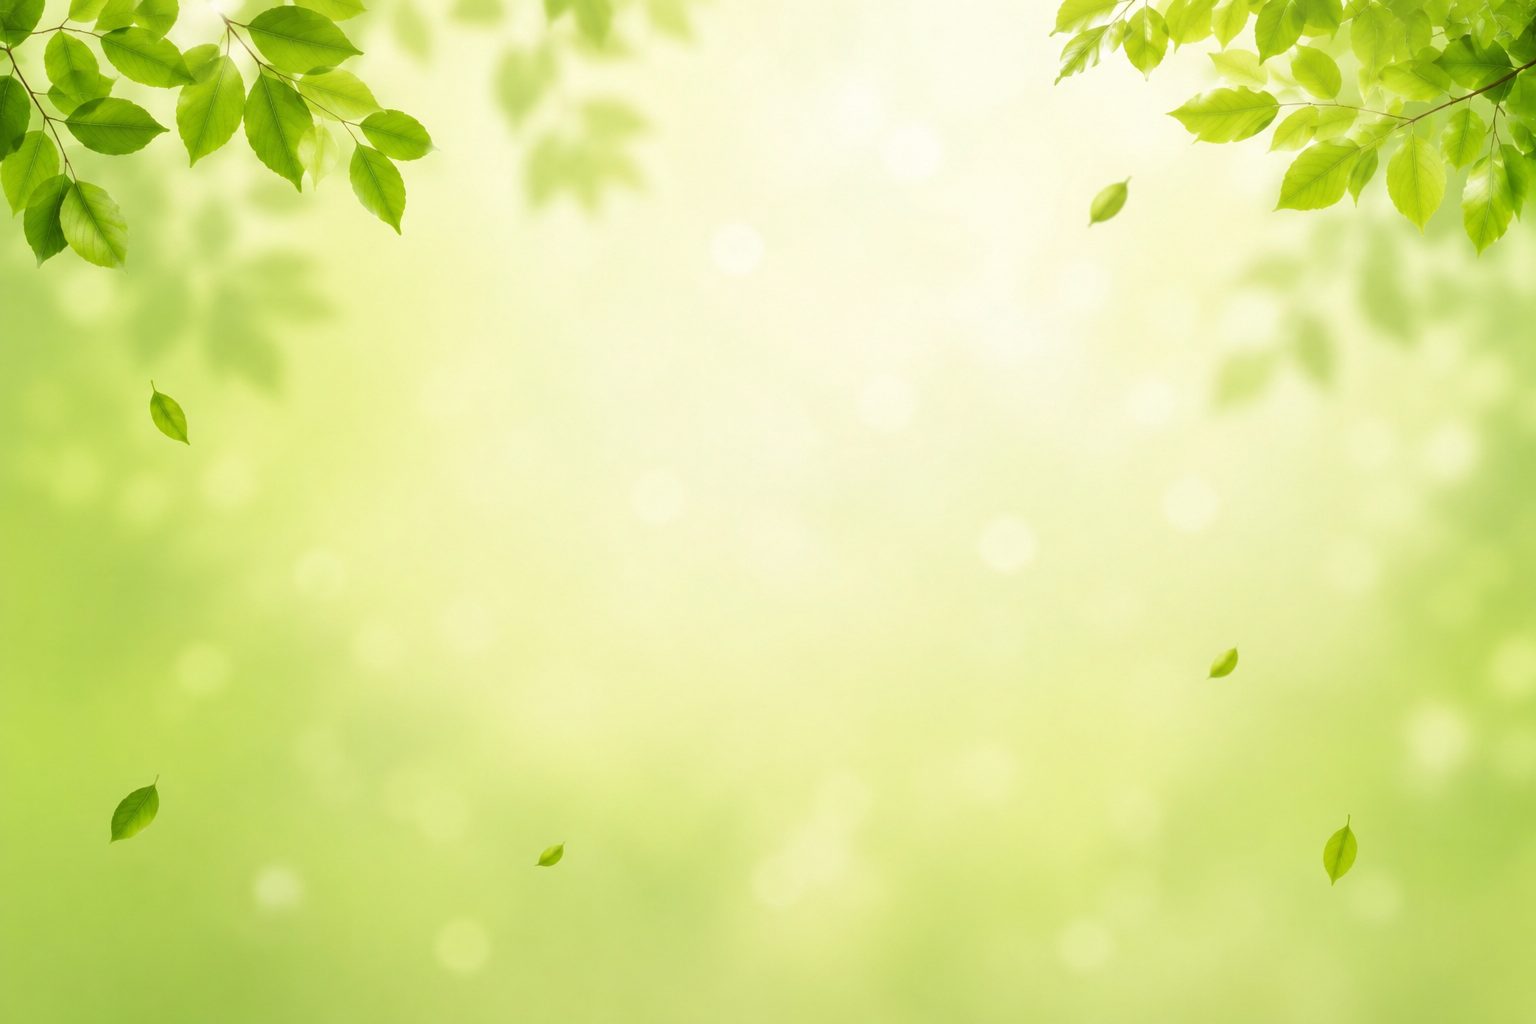
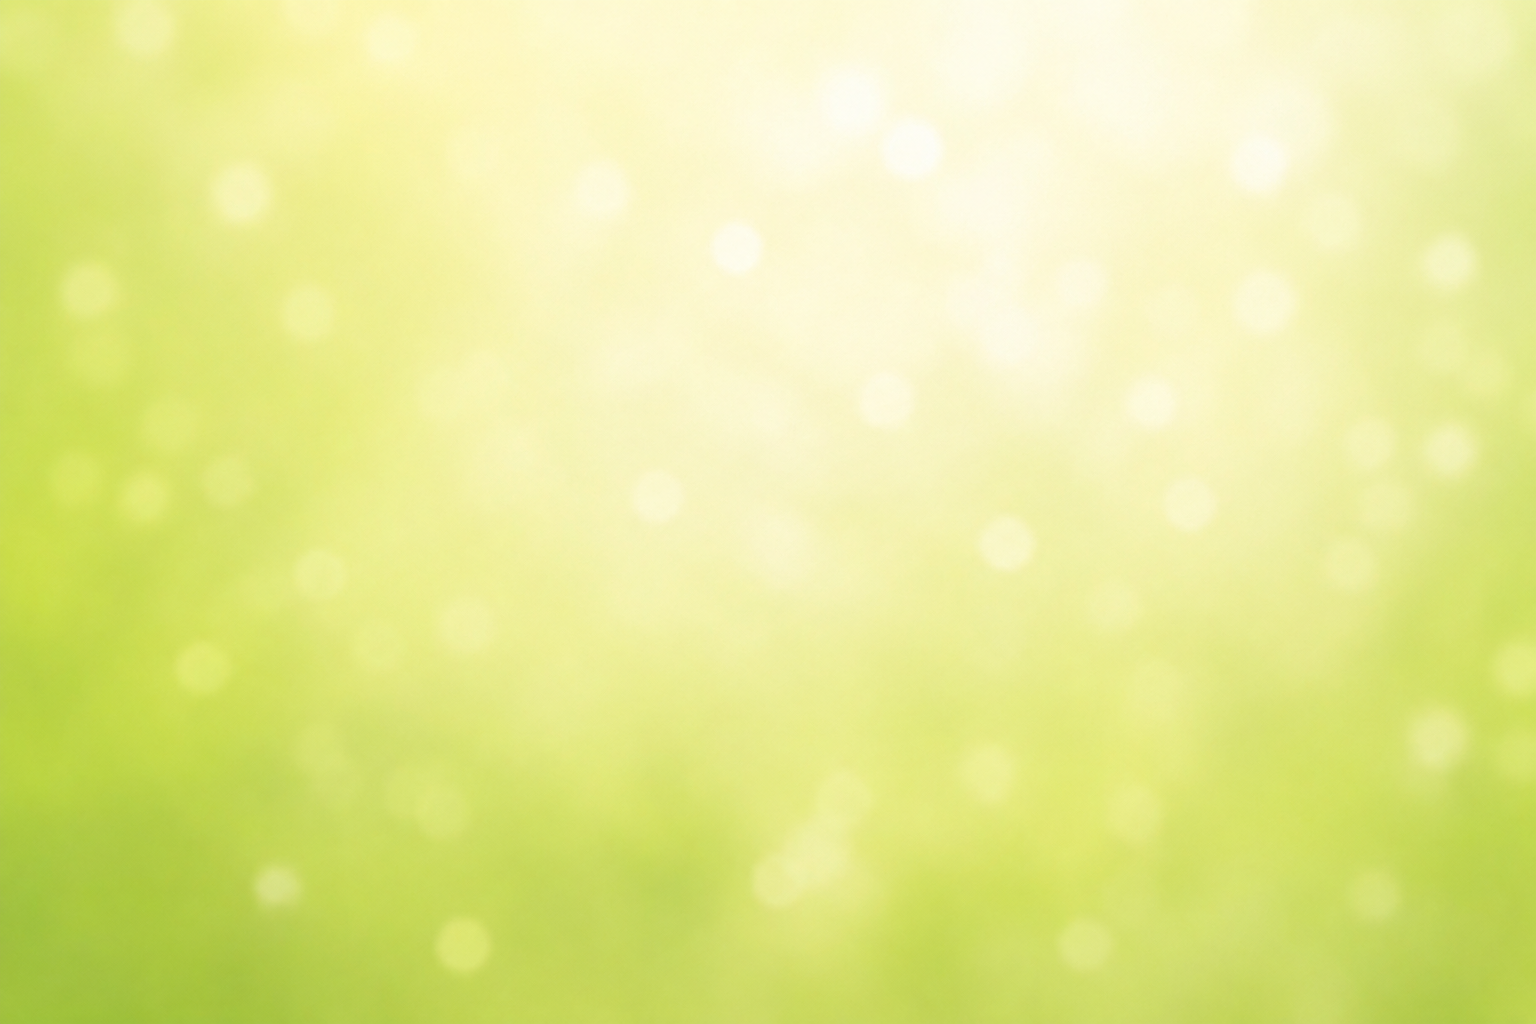
Cambio tamaño imagenes y como se ve en el celular

diff --git a/css/estilo.css b/css/estilo.css
@@ -3,18 +3,19 @@
 body {
     margin: 0;
     font-family: Arial, Helvetica, sans-serif;
-    background: #eef6ee;
+
+    background-color: #eef6ee;
     background-image: url("../imagenes/fondo.png");
+
+    background-repeat: no-repeat;
+    background-position: center;
+    background-size: cover;
+    background-attachment: fixed;
 }
 
-.bodyc,
-.bodyven,
-.bodyve {
-    margin: 0;
-    font-family: Arial, Helvetica, sans-serif;
-    background-image: url("../imagenes/fondo.png");
+* {
+    box-sizing: border-box;
 }
-
 
 /*ENCABEZADO*/
 
@@ -44,9 +45,17 @@ h1 {
 
 .logo2 {
     width: 500px;
+    max-width: 100%;
+    height: auto;
+    display: block;
 }
 
-
+.logosection {
+    display: flex;
+    justify-content: center;
+    align-items: center;
+    margin: 20px 0;
+}
 /*CONTENEDORES*/
 
 .contenedor {
@@ -311,93 +320,7 @@ button:hover {
 
 
 
-@media (max-width: 768px) {
-    
-    body {
-        padding: 12px 0 24px;
-    }
 
-    header {
-        padding: 0 10px;
-    }
-
-    .barra {
-        max-width: 390px;
-        margin: 0 auto;
-        padding: 12px 14px;
-        border-radius: 28px;
-        background: rgba(46, 125, 50, 0.98);
-        box-shadow: 0 10px 28px rgba(0, 0, 0, 0.18);
-        gap: 10px;
-    }
-
-    .logo {
-        width: 70px;
-    }
-
-    .menu {
-        display: none;
-    }
-
-    .desktop-menu {
-        display: none;
-    }
-
-    .mobile-menu {
-        display: block;
-        flex: 1;
-    }
-
-    .topnav {
-        min-width: 160px;
-    }
-
-    .clima {
-        min-width: 120px;
-        padding: 8px 10px;
-        border-radius: 16px;
-    }
-
-    .clima strong {
-        font-size: 14px;
-    }
-
-    .clima small,
-    .clima-datos span {
-        font-size: 10px;
-    }
-
-    .menu2 {
-        display: flex;
-        flex-direction: column;
-
-    }
-
-    .pedidos,
-    .estadisticas {
-        width: min(100%, 360px);
-        margin: 0 auto 18px;
-    }
-
-    .logo2 {
-        /* display: block; */
-        width: 150px;
-        height: 150px;
-       align-items: center;
-    }
-    .logosection {
-        
-        display: flex;
-        justify-content: center;
-        align-items: center;
-        margin: 20px 0;
-    }
-
-    .campos {
-        grid-template-columns: 1fr;
-        gap: 10px;
-    }
-}
 
 .menu2 {
     display: flex;
@@ -460,6 +383,7 @@ footer {
     margin-top: 10px;
     padding: 15px 25px;
     text-align: center;
+    background-color: transparent;
 }
 
 footer h2 {
@@ -468,4 +392,89 @@ footer h2 {
 
 footer p {
     margin-top: 10px;
+}
+
+@media (max-width: 768px) {
+
+    body {
+        padding: 12px 0 24px;
+    }
+
+    header {
+        padding: 0 10px;
+    }
+
+    .barra {
+        width: calc(100% - 20px);
+        max-width: 390px;
+        margin: 0 auto;
+        padding: 12px 14px;
+        border-radius: 28px;
+        gap: 10px;
+    }
+
+    .logo {
+        width: 70px;
+    }
+
+    .logo2 {
+        width: 350px;
+        max-width: 100%;
+        height: auto;
+    }
+
+    .menu {
+        display: none;
+    }
+
+    .desktop-menu {
+        display: none;
+    }
+
+    .mobile-menu {
+        display: block;
+        flex: 1;
+        min-width: 0;
+    }
+
+    .topnav {
+        width: 100%;
+        min-width: 0;
+    }
+
+    .clima {
+        min-width: 0;
+        padding: 8px 10px;
+        border-radius: 16px;
+    }
+
+    .menu2 {
+        display: flex;
+        flex-direction: column;
+        width: 100%;
+        padding: 10px;
+        gap: 18px;
+    }
+
+    .pedidos,
+    .estadisticas {
+        width: 100%;
+        max-width: 360px;
+        margin: 0 auto;
+    }
+
+    form {
+        width: calc(100% - 24px);
+        padding: 20px;
+    }
+
+    .listado {
+        width: calc(100% - 24px);
+        padding: 20px;
+    }
+
+    .campos {
+        grid-template-columns: 1fr;
+        gap: 10px;
+    }
 }

diff --git a/index.html b/index.html
@@ -12,7 +12,7 @@
     <link rel="stylesheet" href="css/modal.css">
 </head>
 
-<body class="container"> 
+<body> 
 
    <header>
     <nav class="barra">
@@ -82,9 +82,7 @@
 
     </section>
 
-    <section class="logosection">
-        <img  src="imagenes/Logoverduleria.png" alt="Logo Verduleria" class="logo2">
-    </section>
+    <section class="logosection"> <img src="imagenes/Logoverduleria.png" alt="Logo Verduleria" class="logo2"> </section>
 
     <section class="estadisticas">
         <h2>Estadisticas Generales de FrutaManía</h2>
@@ -110,7 +108,7 @@
   
 
 
-    <footer id="contacto">
+    <footer>
 
         <h2>Contacto</h2>
 

diff --git a/catalogo.html b/catalogo.html
@@ -10,7 +10,7 @@
     <link rel="stylesheet" href="https://cdnjs.cloudflare.com/ajax/libs/font-awesome/4.7.0/css/font-awesome.min.css">
     <link rel="stylesheet" href="css/modal.css">
 </head>
-<body class="bodyc">
+<body>
     <header>
         <nav class="barra">
             <img class="logo" src="imagenes/logo.png" alt="Logo Verduleria">

diff --git a/ventas.html b/ventas.html
@@ -12,7 +12,7 @@
     <link rel="stylesheet" href="css/modal.css">
 </head>
 
-<body class="bodyven">
+<body>
     <header>
         <nav class="barra">
             <img class="logo" src="imagenes/logo.png" alt="Logo Verduleria">

diff --git a/vendedores.html b/vendedores.html
@@ -13,7 +13,7 @@
 
 </head>
 
-<body class="bodyven">
+<body>
     <header>
         <nav class="barra">
             <img class="logo" src="imagenes/logo.png" alt="Logo Verduleria">
